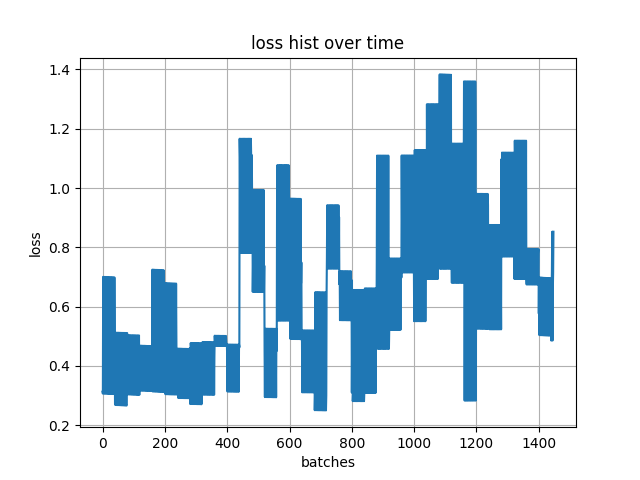
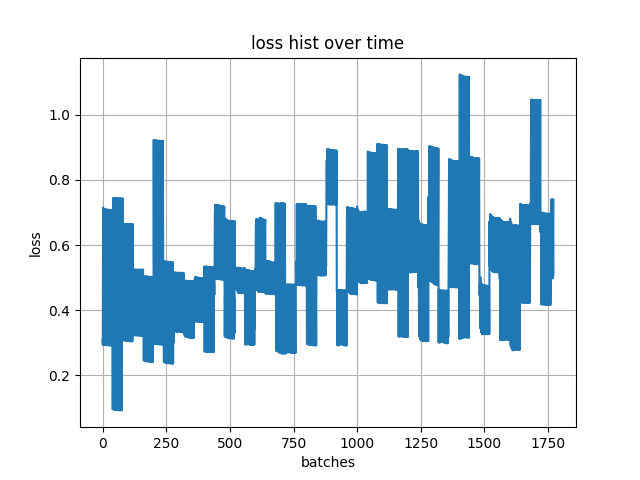
updated learning rate makes big boy happy

diff --git a/examples/BigBoy/pytorch_gym.py b/examples/BigBoy/pytorch_gym.py
@@ -160,6 +160,8 @@ def custom_bigboy_collate(batch):
 	return state_batch, action_batch, next_state_batch, reward_batch
 
 def fit(player, nb_steps):
+	global loss_hist
+
 	global config
 	global reward_hist
 	episode_durations = []
@@ -188,7 +190,7 @@ def fit(player, nb_steps):
 				wandb.log({"reward": episode_reward})
 				tq.set_description("Reward: {:.3f}".format(episode_reward.item()))
 				reward_hist.append(episode_reward.item())
-				# Store the transition in memory
+
 				memory.push(state, action, next_state, reward)
 
 				# Move to the next state
@@ -207,6 +209,7 @@ def fit(player, nb_steps):
 
 			if i_episode % config.target_update == 0:
 				target_net.load_state_dict(policy_net.state_dict())
+
 	print("avg battle length: {}".format(sum(episode_durations) / len(episode_durations)))
 
 def test(player, nb_episodes):
@@ -371,7 +374,7 @@ if __name__ == "__main__":
 		eps_end = .05,
 		eps_decay = 1000,
 		target_update = 5,
-		learning_rate = 0.00025,
+		learning_rate = 0.25,
 		nb_training_steps = 5000,
 		nb_evaluation_episodes = 100,
 		species_emb_dim = 3,
